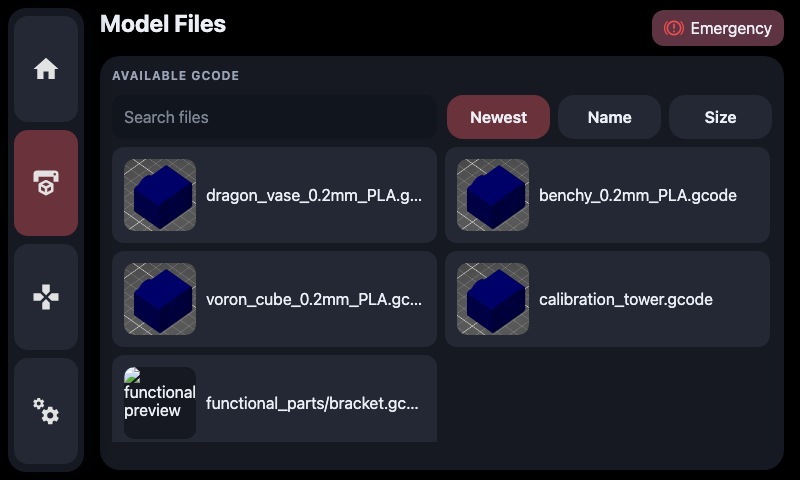
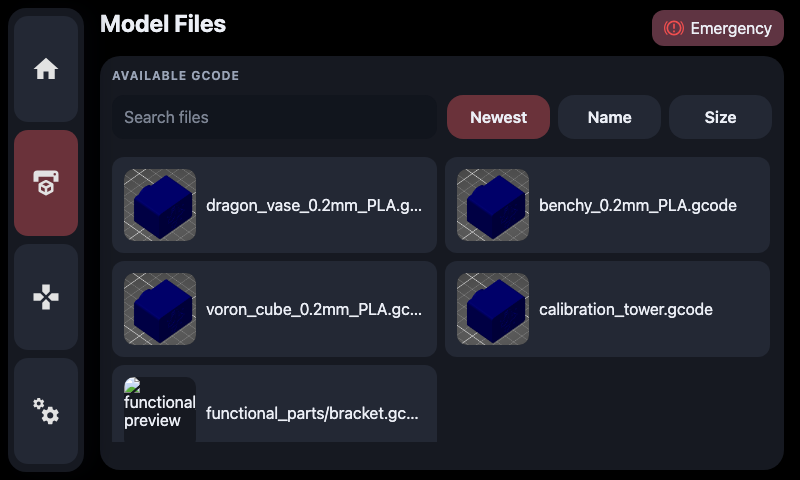
fixed file gap that was raagebaiting me

diff --git a/src/screens/FilesScreen.tsx b/src/screens/FilesScreen.tsx
@@ -148,7 +148,7 @@ export function FilesScreen() {
           <button type="button" className={`btn ${sortBy === 'name' ? 'accent' : ''}`} onClick={() => setSortBy('name')}>Name</button>
           <button type="button" className={`btn ${sortBy === 'size' ? 'accent' : ''}`} onClick={() => setSortBy('size')}>Size</button>
         </div>
-        <div className="file-list" ref={fileListRef}>
+        <div className="file-list top-gap" ref={fileListRef}>
           {visibleFiles.map((file) => (
             <button
               type="button"
